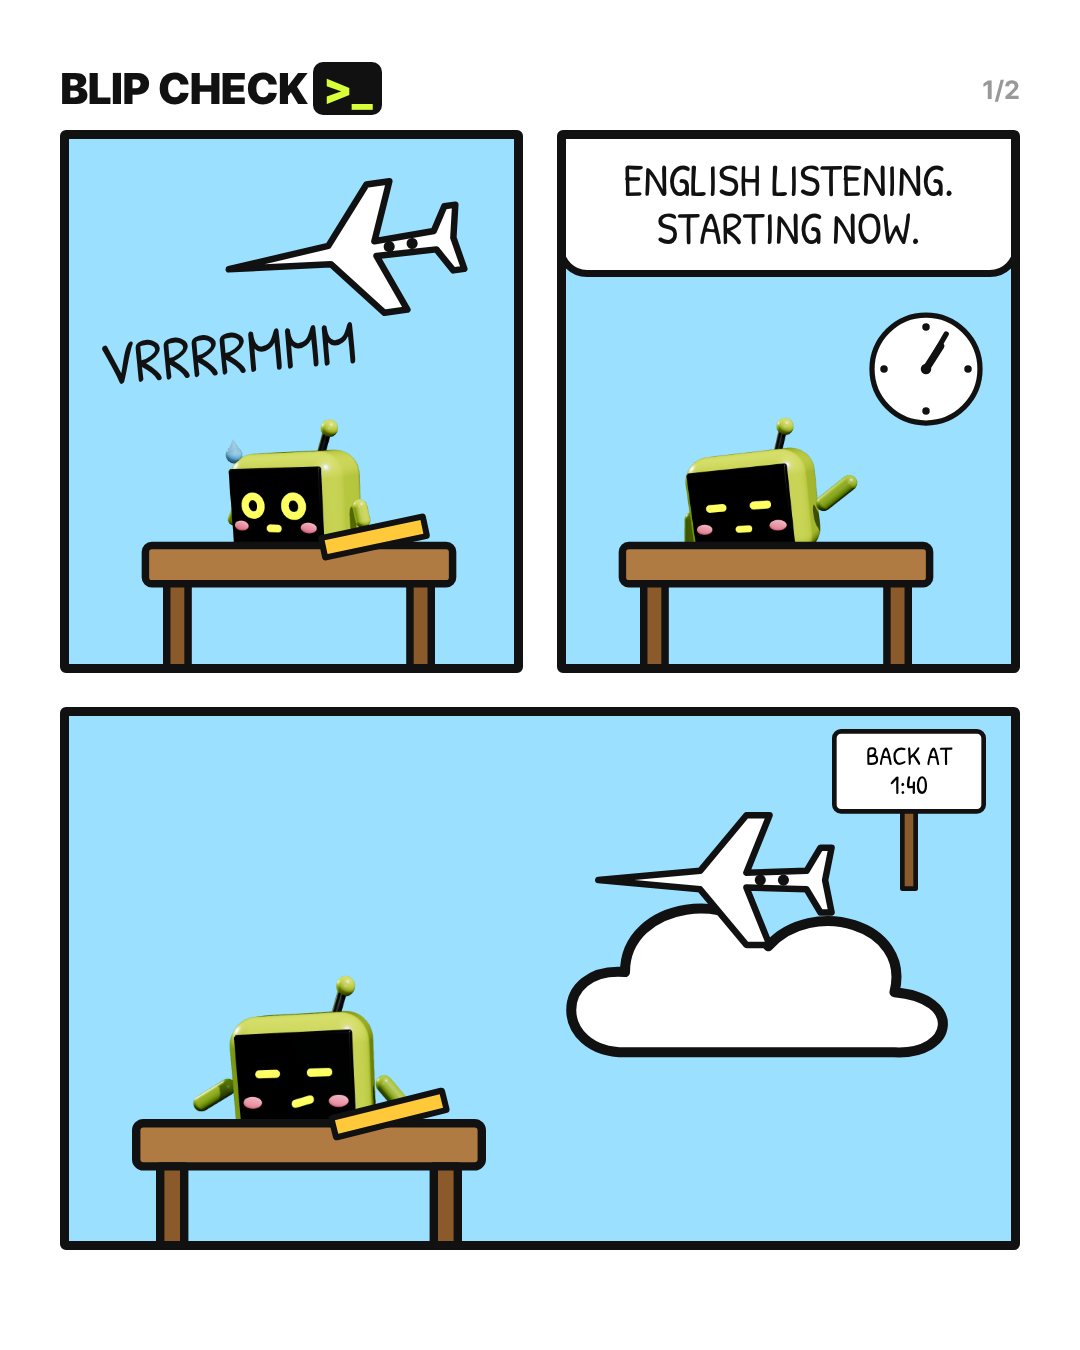
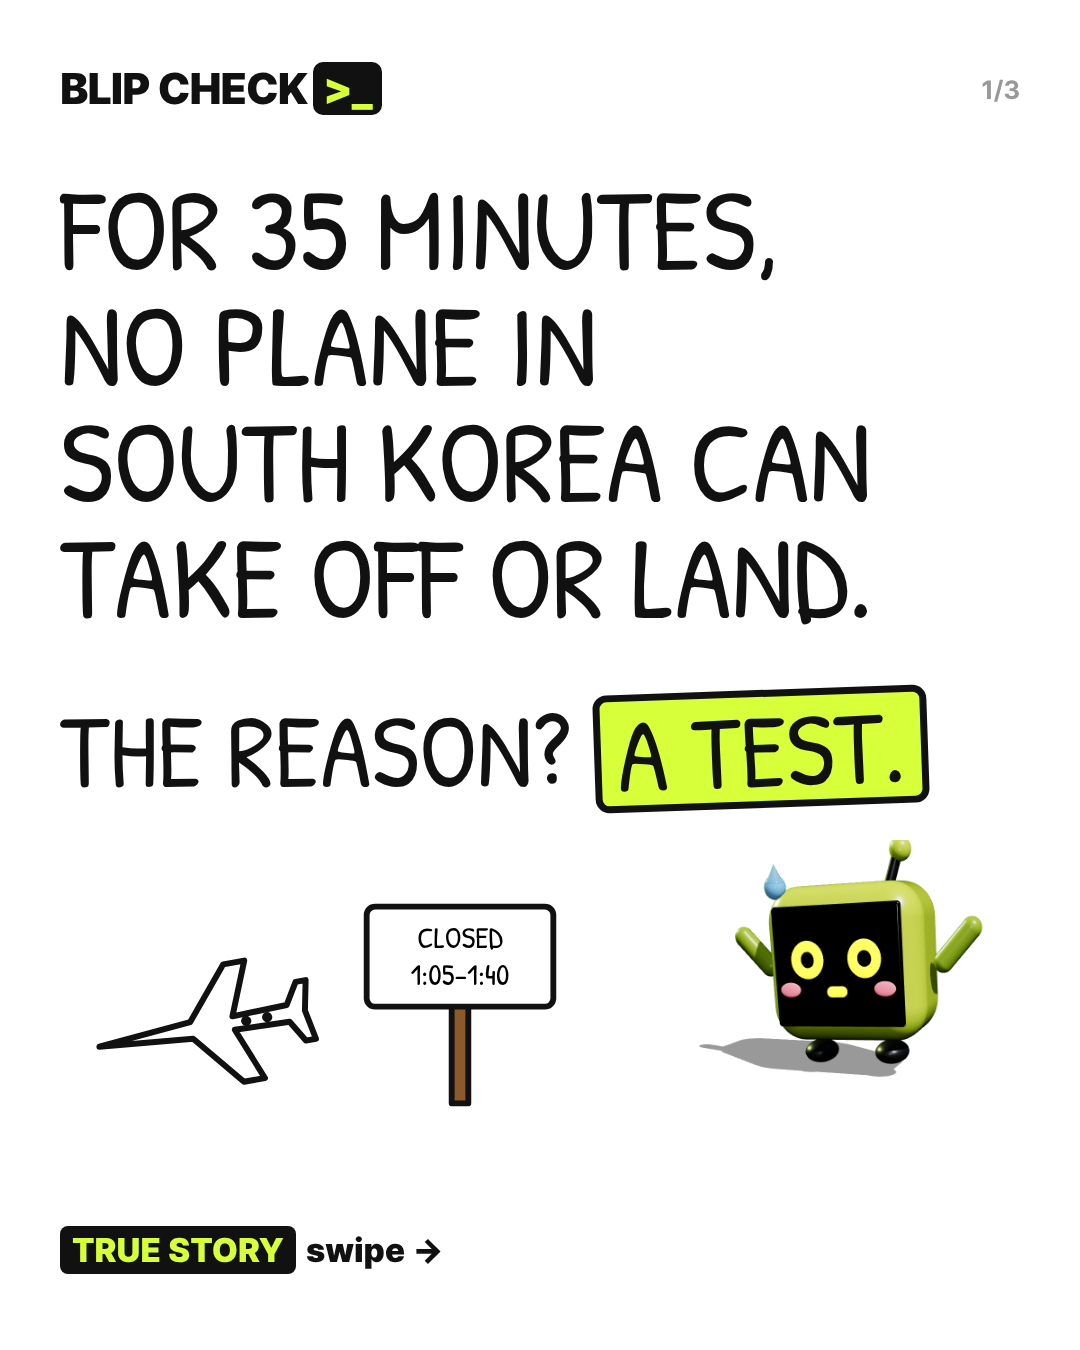
Comic: hook slide (unbelievable-but-true line first) for the planes episode
Claude-Session: https://claude.ai/code/session_01YBPD5nAmahahCY738DBJBU

diff --git a/insta/comic/strip.html b/insta/comic/strip.html
@@ -31,6 +31,14 @@
   .facts li small { display: block; font: 700 22px Pretendard; color: #666; margin-top: 8px; }
   .facts .foot { position: absolute; left: 60px; right: 300px; bottom: 70px; font: 700 26px/1.4 Pretendard; color: #444; }
   .page { position: absolute; right: 60px; top: 74px; font: 700 26px Pretendard; color: #999; }
+
+  /* hook slide: the unbelievable-but-true line, big */
+  .hook { background: #fff; }
+  .hook .h1 { position: absolute; left: 60px; right: 60px; top: 170px; font: 400 116px/1.0 Hand; text-transform: uppercase; color: #111; }
+  .hook .h2 { position: absolute; left: 60px; top: 690px; font: 400 104px/1 Hand; text-transform: uppercase; color: #111; }
+  .hook .h2 span { background: #d7ff3a; padding: 0 16px; border: 7px solid #111; border-radius: 14px; display: inline-block; rotate: -2deg; }
+  .hook .true { position: absolute; left: 60px; bottom: 80px; font: 900 34px Pretendard; color: #111; }
+  .hook .true b { background: #111; color: #d7ff3a; padding: 4px 12px; border-radius: 8px; margin-right: 10px; }
 </style>
 </head>
 <body>
@@ -120,6 +128,11 @@
       if (s.type === "facts")
         return `<section class="slide facts">${head}<h2>${s.title}</h2><ul>${s.items.map((it) => `<li><span class="tag ${it.plan ? "plan" : ""}">${it.plan ? "STILL A PLAN" : "REAL"}</span><br>${esc(it.text)}<small>${esc(it.src)}</small></li>`).join("")}</ul>
           <div class="foot">${esc(s.foot)}</div><div class="blip" style="right:30px;bottom:20px;width:210px;height:210px"><img src="${BLIP(s.face ?? "happy")}"></div></section>`;
+      if (s.type === "hook")
+        return `<section class="slide hook">${head}<div class="h1">${br(s.line)}</div><div class="h2">${esc(s.lead ?? "")} <span>${esc(s.punch)}</span></div>
+          ${(s.props ?? []).map((q) => PROPS[q.type](q)).join("")}
+          <div class="blip" style="right:${s.bx ?? 40}px;bottom:${s.by ?? 40}px;width:${s.bsize ?? 380}px;height:${s.bsize ?? 380}px"><img src="${BLIP(s.face ?? "panic")}"></div>
+          <div class="true"><b>TRUE STORY</b>swipe →</div></section>`;
       const rects = L[s.layout];
       return `<section class="slide">${head}${s.panels.map((p, k) => panel(rects[k], p)).join("")}</section>`;
     }).join("");
